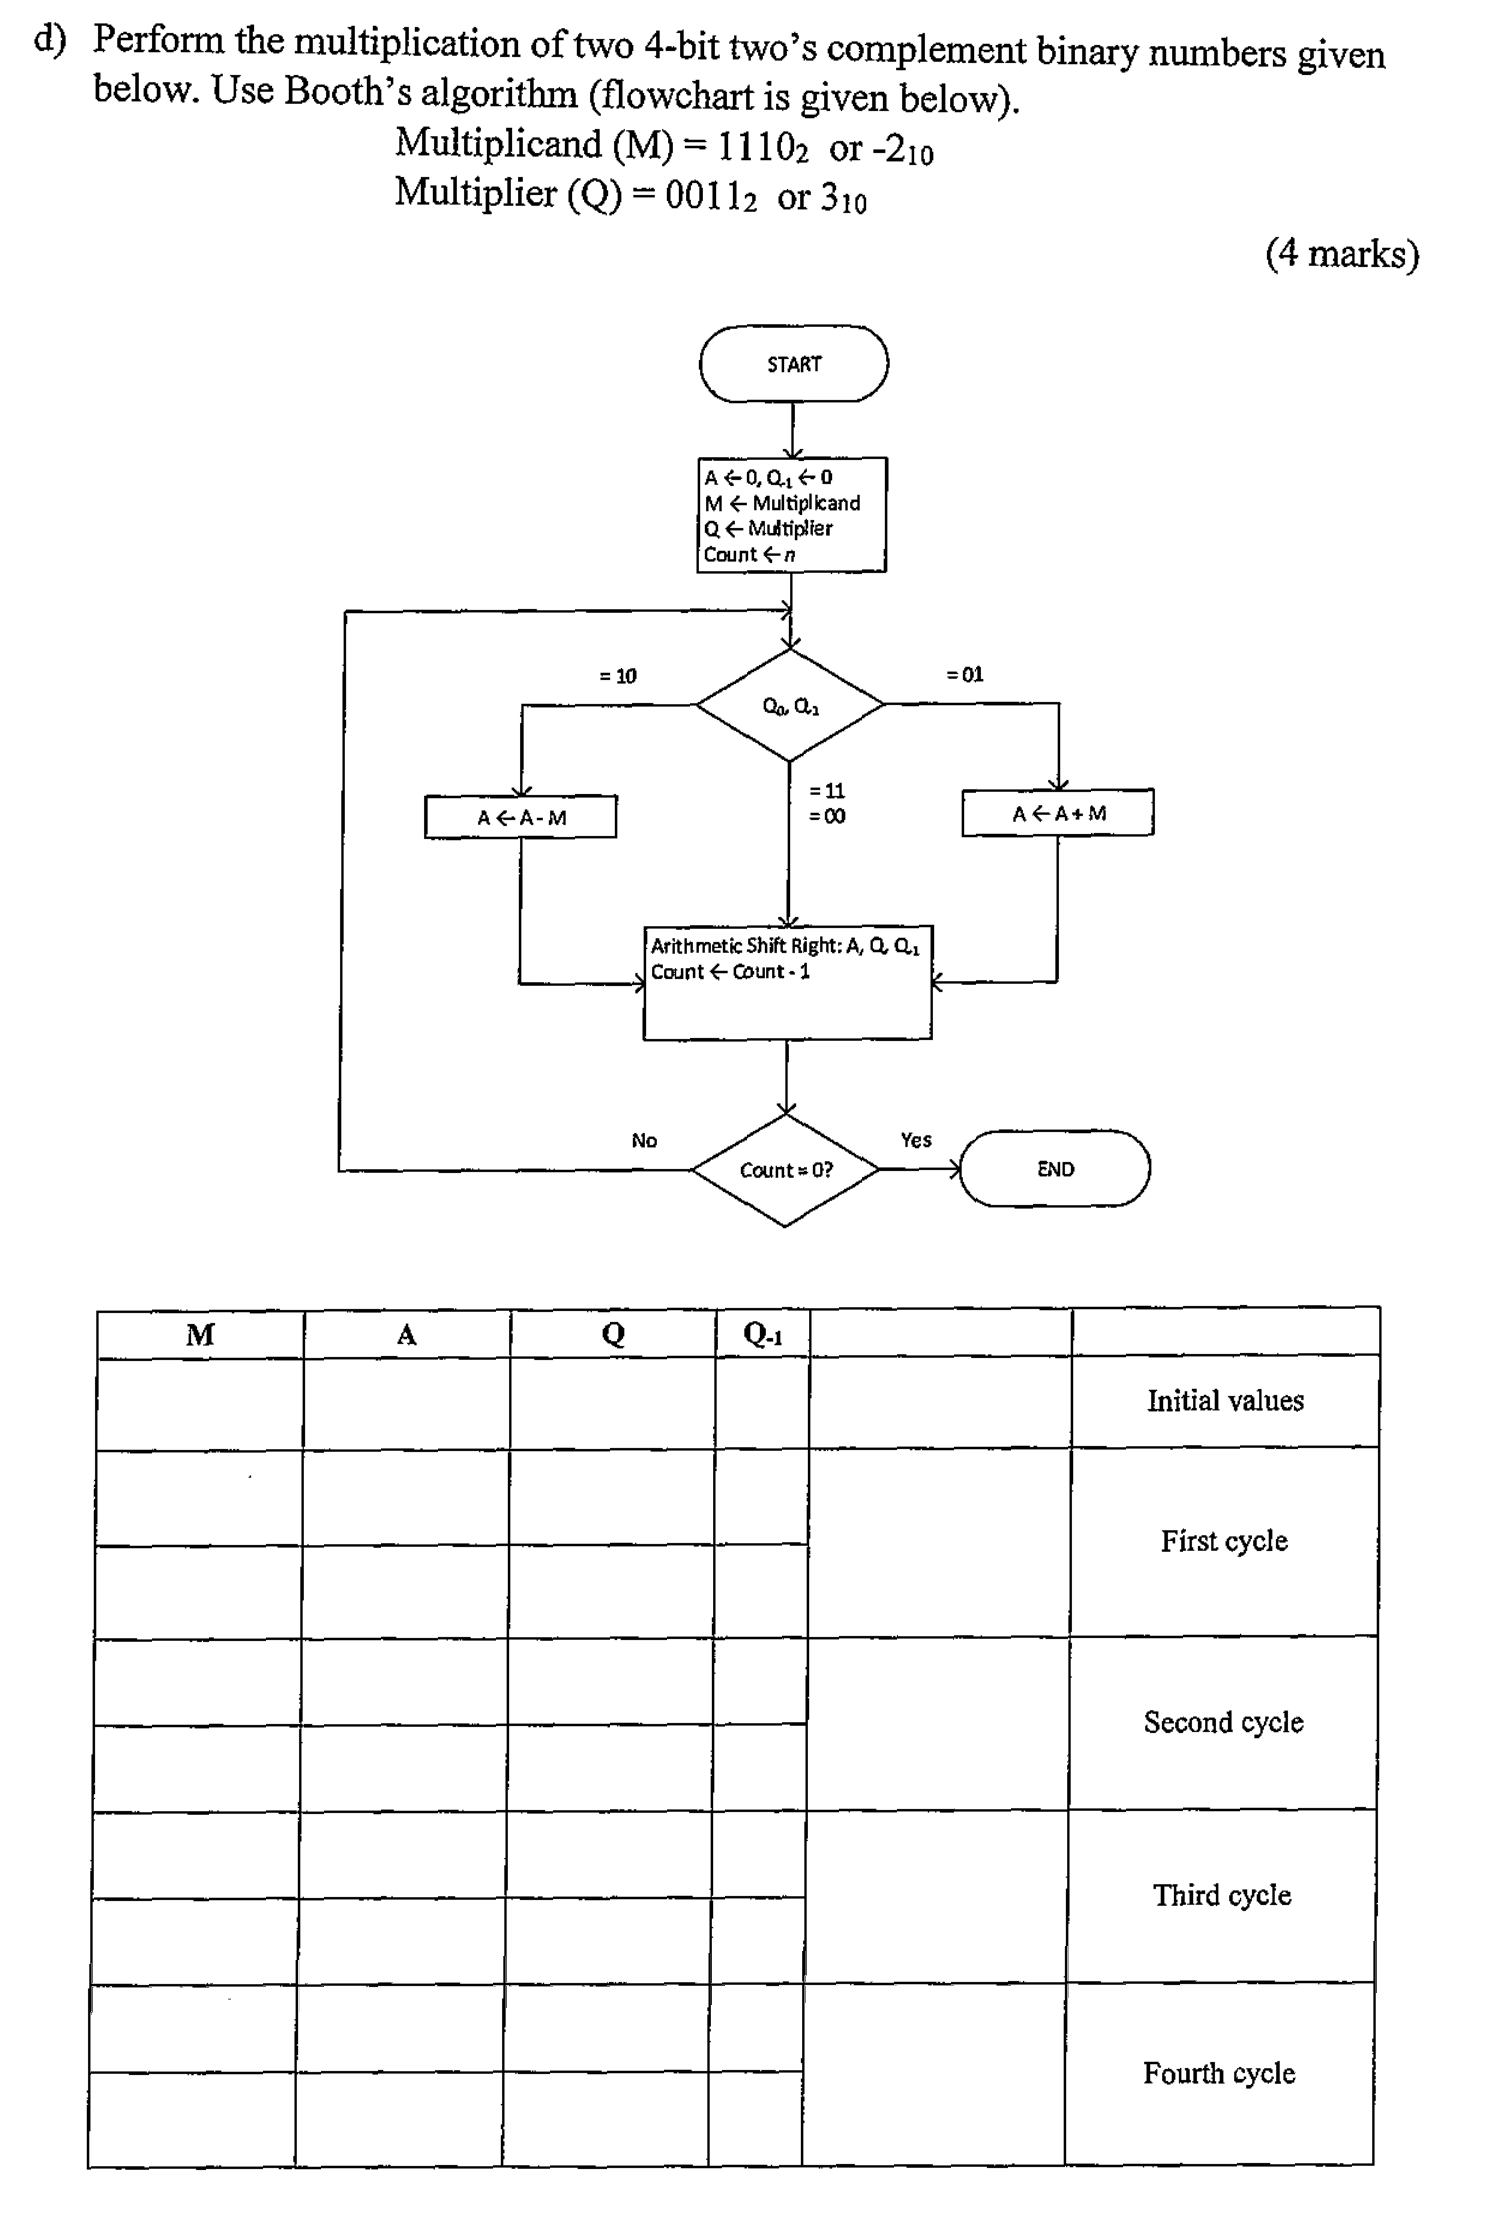
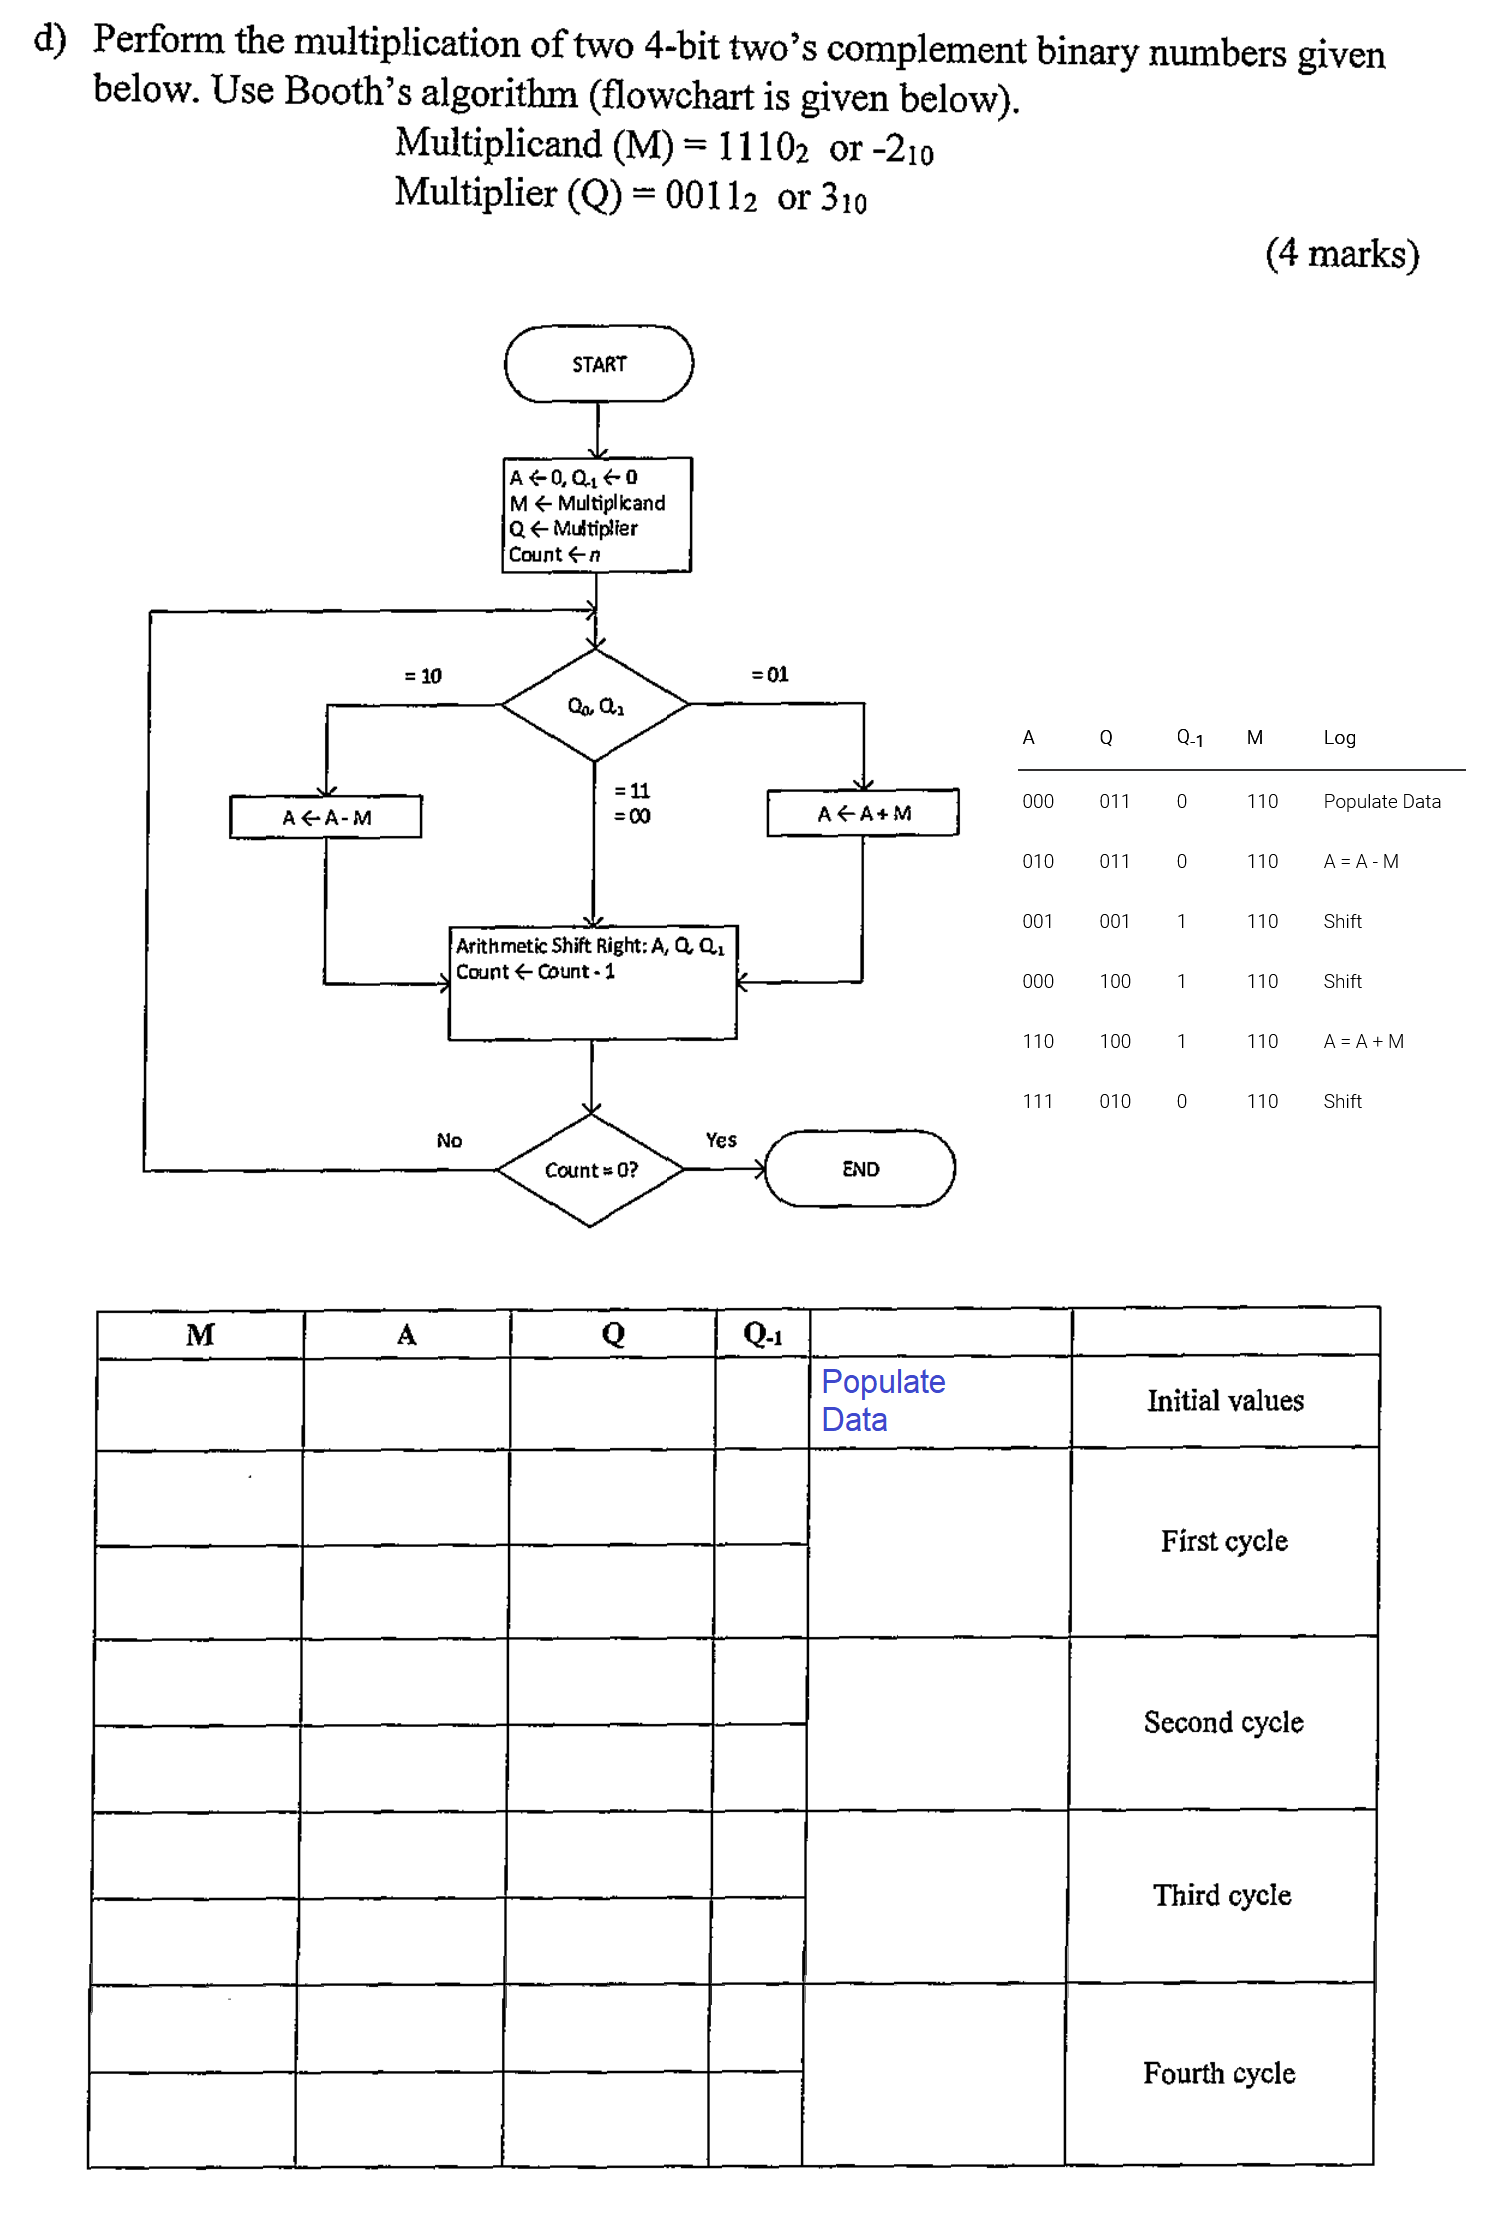
e

diff --git a/index.html b/index.html
@@ -290,7 +290,7 @@
 		</div>
 
 		<div class="end-text">
-			<p>Copyright © 2023 - 2024 All rights reserved | Last updated <a href="Update logs.html">14 May 2024</a>   </p>
+			<p>Copyright © 2023 - 2024 All rights reserved | Last updated <a href="Update logs.html">18 May 2024</a>   </p>
 		</div>
 	</section>
 

diff --git a/Update logs.html b/Update logs.html
@@ -913,7 +913,8 @@ th {
     <tr>
       <td>14 May 2024</td>
       <td> 
-        Split image 1 to 1 & 1b for TSN 1101 exams.
+        Split image 1 to 1 & 1b for TSN 1101 exams.<br>
+        Also edited image 1 & 1b.
       </td>
     </tr>
 
